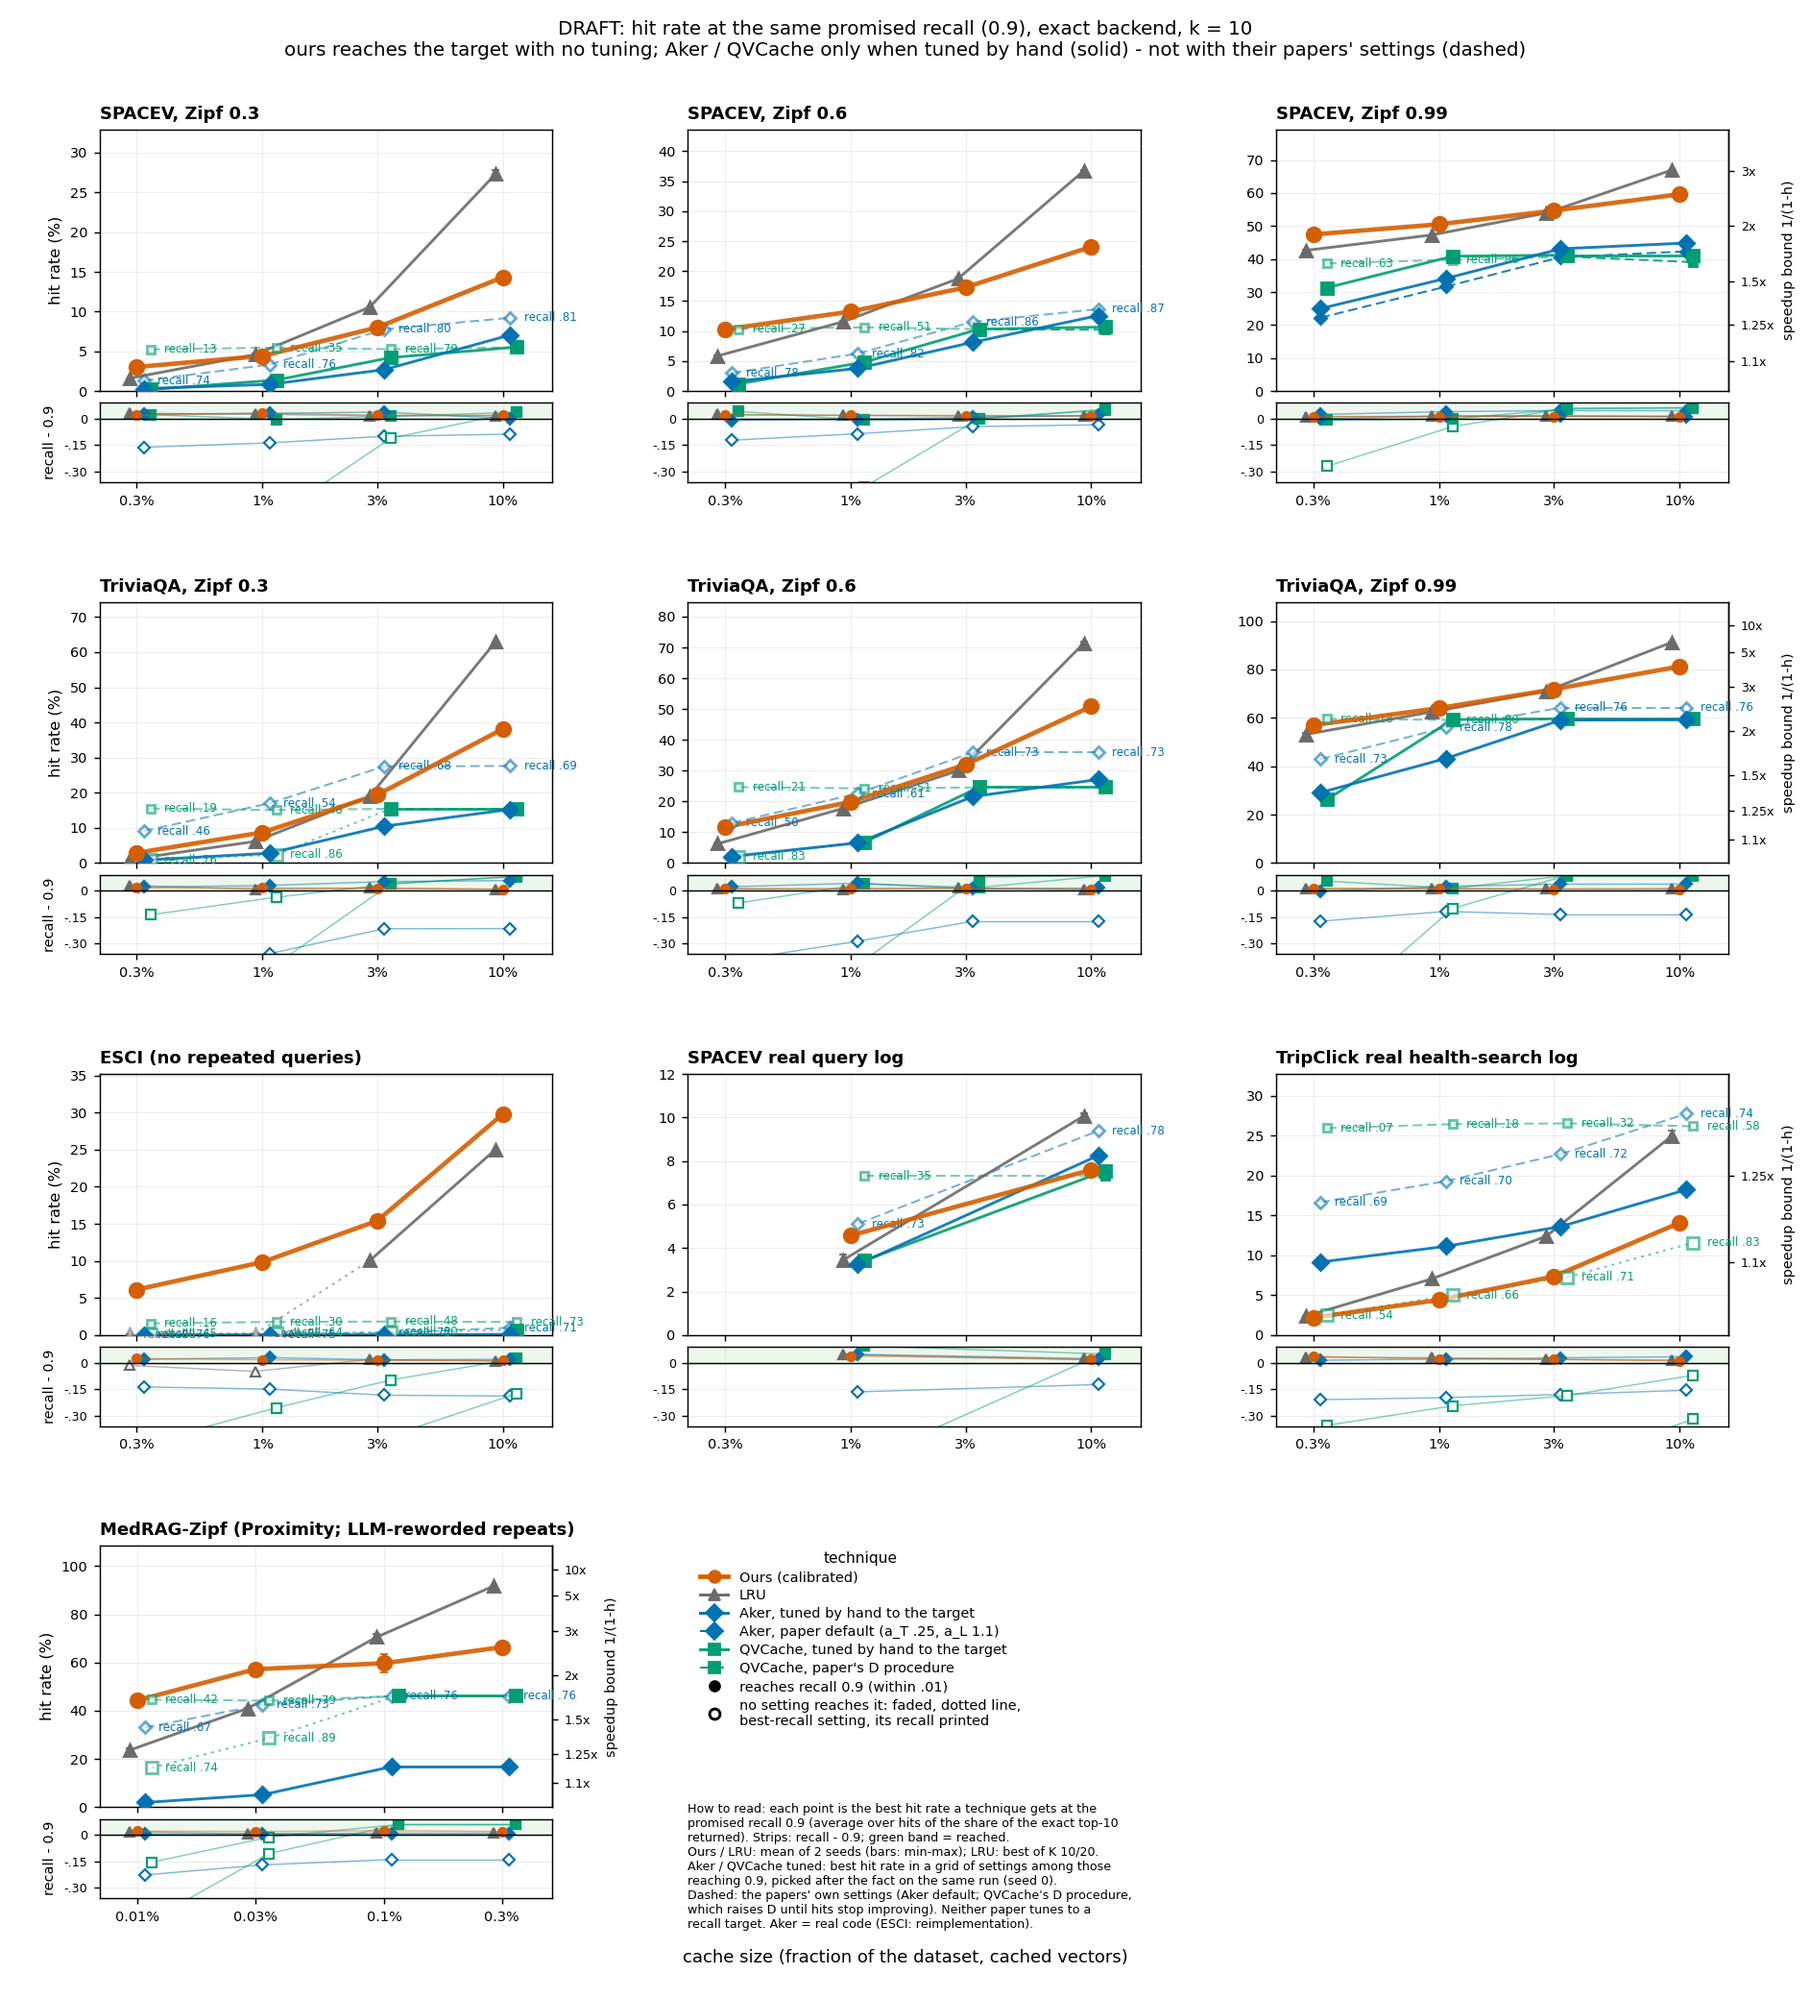
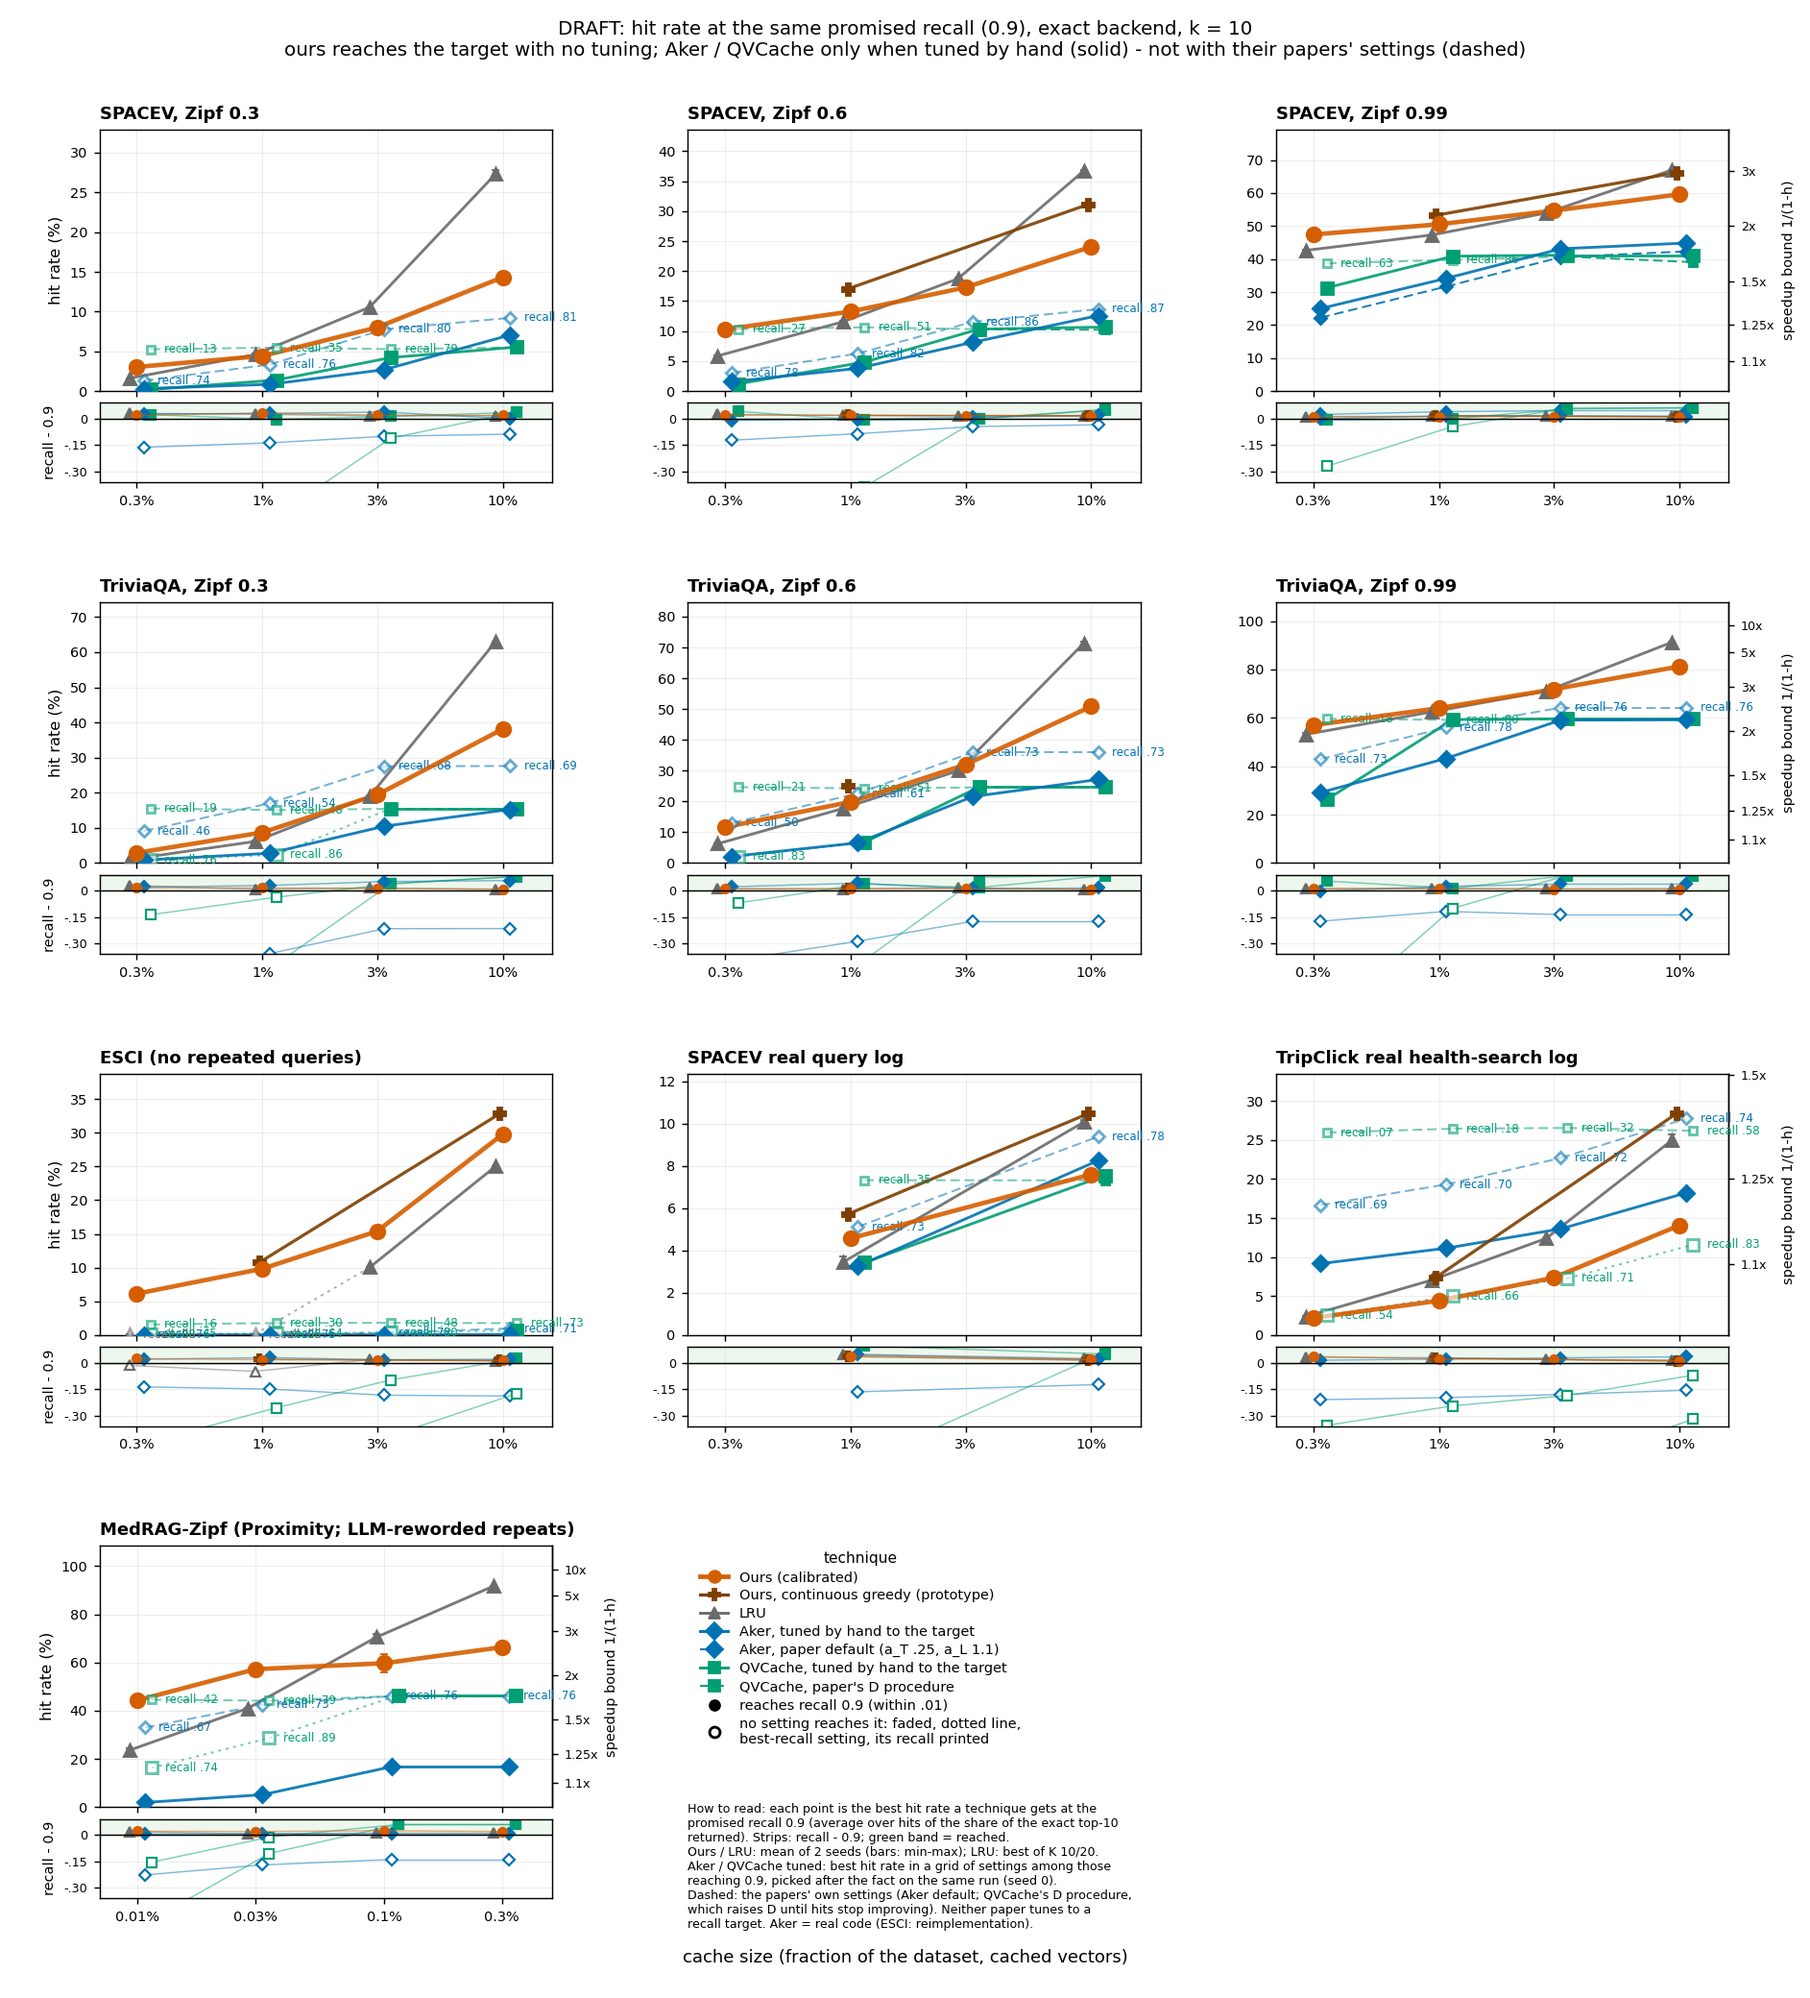
Headline: continuous greedy prototype line

diff --git a/simulations/approximate_hits/plot_headline.py b/simulations/approximate_hits/plot_headline.py
@@ -34,10 +34,11 @@ STYLE = {"aker_paper": ("Aker, paper default (a_T .25, a_L 1.1)", "#0072B2", "D"
          "qvcache_paper": ("QVCache, paper's D procedure", "#009E73", "s", 1.1),
          "ours": ("Ours (calibrated)", "#D55E00", "o", 2.6),
          "ours_drift": ("Ours, drift handling (timing)", "#CC79A7", "o", 1.8),
+         "ours_online": ("Ours, continuous greedy (prototype)", "#7F3F00", "P", 1.8),
          "lru": ("LRU", "#6B6B6B", "^", 1.6),
          "aker": ("Aker, tuned by hand to the target", "#0072B2", "D", 1.6),
          "qvcache": ("QVCache, tuned by hand to the target", "#009E73", "s", 1.6)}
-JITTER = {"ours": 1.0, "ours_drift": 1.04, "lru": 0.93, "aker": 1.07, "qvcache": 1.14, "aker_paper": 1.07, "qvcache_paper": 1.14}     # x offsets (log axis)
+JITTER = {"ours": 1.0, "ours_drift": 1.04, "ours_online": 0.97, "lru": 0.93, "aker": 1.07, "qvcache": 1.14, "aker_paper": 1.07, "qvcache_paper": 1.14}     # x offsets (log axis)
 # (title, prep, stream, uses real Aker?)
 LAYOUT = [
     [("SPACEV, Zipf 0.3", "spacev-aker-0.3", "trace", True),
@@ -96,7 +97,7 @@ def pick(cands):
 def collect(prep, stream, budget, real_aker):
     out = {}
     # ours and LRU: seeds 0 and 1
-    for tech, names in (("ours", OURS_NAMES), ("lru", LRU_NAMES)):
+    for tech, names in (("ours", OURS_NAMES), ("lru", LRU_NAMES), ("ours_online", ["ogreedy_utility"])):
         cands = []
         for name in names:
             runs = [sim_stats(sim_dir(prep, stream, budget, s) / f"{name}.json") for s in (0, 1)]
@@ -154,7 +155,7 @@ def draw_panel(fig, outer, title, data, ymax_pad=1.18, speedup_axis=False, first
     inner = GridSpecFromSubplotSpec(2, 1, subplot_spec=outer, height_ratios=[3.3, 1], hspace=0.07)
     ax = fig.add_subplot(inner[0])
     st = fig.add_subplot(inner[1], sharex=ax)
-    for tech in ("aker_paper", "qvcache_paper", "lru", "qvcache", "aker", "ours"):
+    for tech in ("aker_paper", "qvcache_paper", "lru", "qvcache", "aker", "ours_online", "ours"):
         label, col, mk, lw = STYLE[tech]
         paper = tech.endswith("_paper")
         pts = [(b * JITTER[tech], data[b][tech]) for b in sorted(data) if data[b].get(tech)]
@@ -230,7 +231,7 @@ def main():
     # legend and notes in the free cell
     ax = fig.add_subplot(outer[len(LAYOUT) - 1, 1:])
     ax.axis("off")
-    order = ["ours", "lru", "aker", "aker_paper", "qvcache", "qvcache_paper"]
+    order = ["ours", "ours_online", "lru", "aker", "aker_paper", "qvcache", "qvcache_paper"]
     handles = [plt.Line2D([], [], color=STYLE[t][1], marker=STYLE[t][2], lw=STYLE[t][3], ms=7, label=STYLE[t][0],
                           ls=(0, (5, 2.5)) if t.endswith("_paper") else "-") for t in order if t in STYLE]
     handles += [plt.Line2D([], [], color="k", marker="o", ls="none", mfc="k", label="reaches recall 0.9 (within .01)"),
